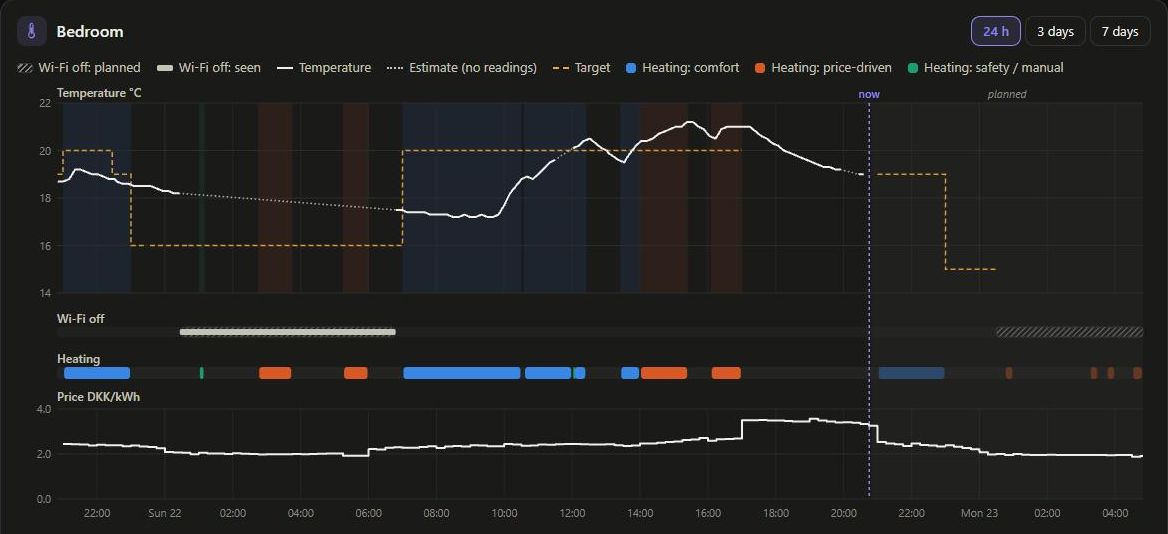
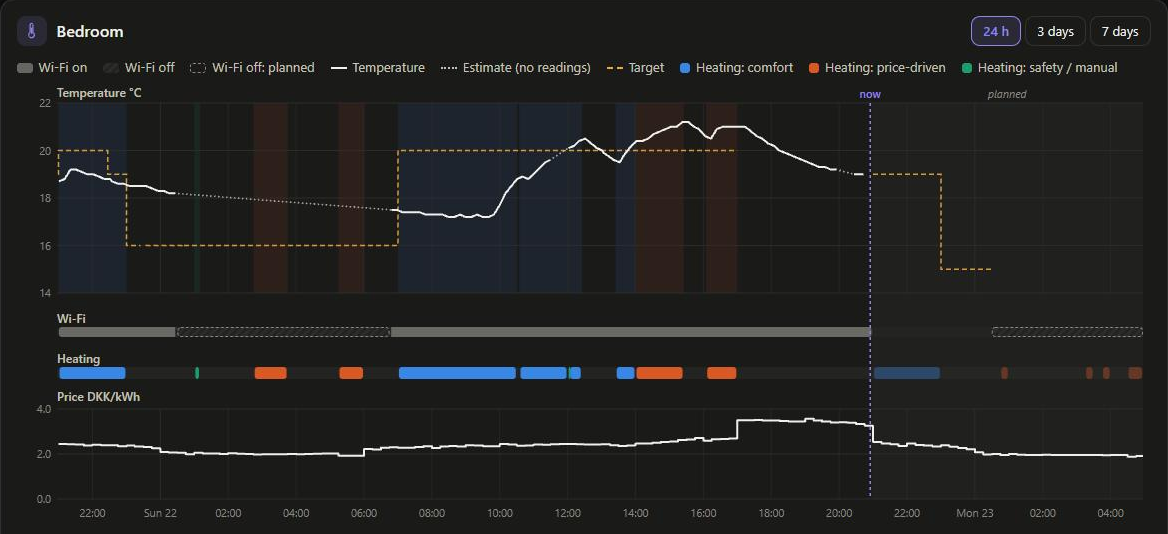
Room chart: the Wi-Fi lane shows on as a lit bar and off as the dark 'off' stripes (as in the program), planned off as a dashed outline

diff --git a/web/app.js b/web/app.js
@@ -753,8 +753,9 @@ function renderLegend(room, segs, wifi) {
   const host = $("legend");
   host.replaceChildren();
   if (wifi) {
+    const o = el("span", {}, host); el("i", { class: "key-wifi-on" }, o); o.appendChild(document.createTextNode("Wi-Fi on"));
+    const s = el("span", {}, host); el("i", { class: "key-wifi-off" }, s); s.appendChild(document.createTextNode("Wi-Fi off"));
     const p = el("span", {}, host); el("i", { class: "key-wifi-planned" }, p); p.appendChild(document.createTextNode("Wi-Fi off: planned"));
-    const s = el("span", {}, host); el("i", { class: "key-wifi-seen" }, s); s.appendChild(document.createTextNode("Wi-Fi off: seen"));
   }
   if (!room.priceOnly) {
     const a = el("span", {}, host); el("i", { class: "key-line" }, a); a.appendChild(document.createTextNode("Temperature"));
@@ -855,24 +856,30 @@ function renderDetail() {
     if (!temps.length) el("text", { class: "empty", x: W / 2, y: tempTop + tempH / 2, "text-anchor": "middle" }, svg, "No temperatures recorded yet");
   }
 
-  // Wi-Fi lane: planned periods as a hatched band, what the sensors saw as a solid bar on top.
+  // Wi-Fi lane, read like the rest of the UI: on = a lit bar, off = the dark stripes "off" has in the
+  // program; a planned off period is a dashed outline, so plan and reality can be compared.
   if (wifi) {
-    const pat = el("pattern", { id: "wifi-hatch", width: 4, height: 4, patternUnits: "userSpaceOnUse", patternTransform: "rotate(45)" },
+    // Dark stripes like .tl-off. CSS variables only work in style, not in SVG presentation attributes.
+    const pat = el("pattern", { id: "wifi-off", width: 6, height: 6, patternUnits: "userSpaceOnUse", patternTransform: "rotate(45)" },
                    el("defs", {}, svg));
-    // CSS variables only work in style, not in SVG presentation attributes.
-    el("line", { x1: 0, y1: 0, x2: 0, y2: 4, style: "stroke: var(--muted); stroke-width: 1.5" }, pat);
-    el("text", { class: "panel-label", x: m.l, y: wifiTop - 4 }, svg, "Wi-Fi off");
+    el("rect", { width: 6, height: 6, style: "fill: var(--surface-2)" }, pat);
+    el("rect", { width: 3, height: 6, style: "fill: var(--grid)" }, pat);
+    el("text", { class: "panel-label", x: m.l, y: wifiTop - 4 }, svg, "Wi-Fi");
     el("rect", { x: m.l, y: wifiTop, width: W - m.l - m.r, height: wifiH, fill: "var(--grid)", rx: 3, opacity: 0.35 }, svg);
-    const band = (a, b, attrs) => {
-      const x0 = x(Math.max(a, t0)), x1 = x(Math.min(b, t1));
-      if (x1 > x0) el("rect", { x: x0, y: wifiTop, width: Math.max(2, x1 - x0), height: wifiH, rx: 3, ...attrs }, svg);
-    };
-    // The pattern fill as an attribute: url(#id) in the stylesheet would resolve against style.css.
-    for (const [a, b] of wifi.planned) band(a, b, { class: "wifi-planned", fill: "url(#wifi-hatch)" });
-    // Seen: a solid, slimmer bar inside the lane, so it reads the same over a planned band or without one.
-    for (const [a, b] of wifi.seen) {
-      const x0 = x(Math.max(a, t0)), x1 = x(Math.min(b, t1));
-      if (x1 > x0) el("rect", { class: "wifi-seen", x: x0, y: wifiTop + 2, width: Math.max(2, x1 - x0), height: wifiH - 4, rx: 2 }, svg);
+    const span = (a, b) => [x(Math.max(a, t0)), x(Math.min(b, t1))];
+    // On: from the first reading in the chart until now, minus what the sensors saw as off.
+    const [o0, o1] = span(temps.length ? Math.max(t0, temps[0][0]) : t0, h.to);
+    if (o1 > o0) el("rect", { class: "wifi-on", x: o0, y: wifiTop, width: o1 - o0, height: wifiH, rx: 3 }, svg);
+    // Off: what the sensors saw, and planned periods still ahead. The pattern goes in as an attribute:
+    // url(#id) in the stylesheet would resolve against style.css.
+    const off = [...wifi.seen.map(([a, b]) => [a, b]), ...wifi.planned.filter(([, b]) => b > h.to).map(([a, b]) => [Math.max(a, h.to), b])];
+    for (const [a, b] of off) {
+      const [x0, x1] = span(a, b);
+      if (x1 > x0) el("rect", { x: x0, y: wifiTop, width: Math.max(2, x1 - x0), height: wifiH, fill: "url(#wifi-off)" }, svg);
+    }
+    for (const [a, b] of wifi.planned) {
+      const [x0, x1] = span(a, b);
+      if (x1 > x0) el("rect", { class: "wifi-planned", x: x0 + 0.5, y: wifiTop + 0.5, width: Math.max(2, x1 - x0 - 1), height: wifiH - 1, rx: 3 }, svg);
     }
   }
 

diff --git a/web/style.css b/web/style.css
@@ -468,13 +468,14 @@ a.chip { text-decoration: none; }
 .legend .key-dash { width: 16px; border-top: 2px dashed var(--target); display: inline-block; }
 .legend .key-estimate { width: 16px; border-top: 2px dotted var(--ink-2); display: inline-block; }
 /* Wi-Fi off lane: planned = hatched outline band, seen = solid neutral bar (status-neutral, not a series colour) */
-.chart .wifi-planned { stroke: var(--axis); stroke-width: 1; }
-.chart .wifi-seen { fill: var(--ink-2); }
-/* The legend keys draw what the lane draws: a hatched outlined band (the hatch in --muted, like the
-   SVG pattern) and a solid, slimmer bar. */
-.legend .key-wifi-planned { width: 16px; height: 10px; box-sizing: border-box; border: 1px solid var(--axis); border-radius: 3px; display: inline-block;
-  background: repeating-linear-gradient(-45deg, var(--muted) 0 1.5px, transparent 1.5px 4px); }
-.legend .key-wifi-seen { width: 16px; height: 6px; border-radius: 2px; display: inline-block; background: var(--ink-2); }
+.chart .wifi-on { fill: var(--ink-2); opacity: 0.45; }
+.chart .wifi-planned { fill: none; stroke: var(--muted); stroke-width: 1; stroke-dasharray: 3 2; }
+/* The legend keys draw what the lane draws: a lit bar, the dark "off" stripes (as in the program
+   timeline), a dashed outline. */
+.legend .key-wifi-on { width: 16px; height: 10px; border-radius: 3px; display: inline-block; background: var(--ink-2); opacity: 0.45; }
+.legend .key-wifi-off { width: 16px; height: 10px; border-radius: 3px; display: inline-block;
+  background: repeating-linear-gradient(135deg, var(--surface-2) 0 3px, var(--grid) 3px 6px); }
+.legend .key-wifi-planned { width: 16px; height: 10px; box-sizing: border-box; border: 1px dashed var(--muted); border-radius: 3px; display: inline-block; }
 .chart { position: relative; width: 100%; margin-top: 8px; transition: opacity 0.2s; }
 .chart.loading { opacity: 0.5; }
 .chart svg { display: block; width: 100%; overflow: visible; }
